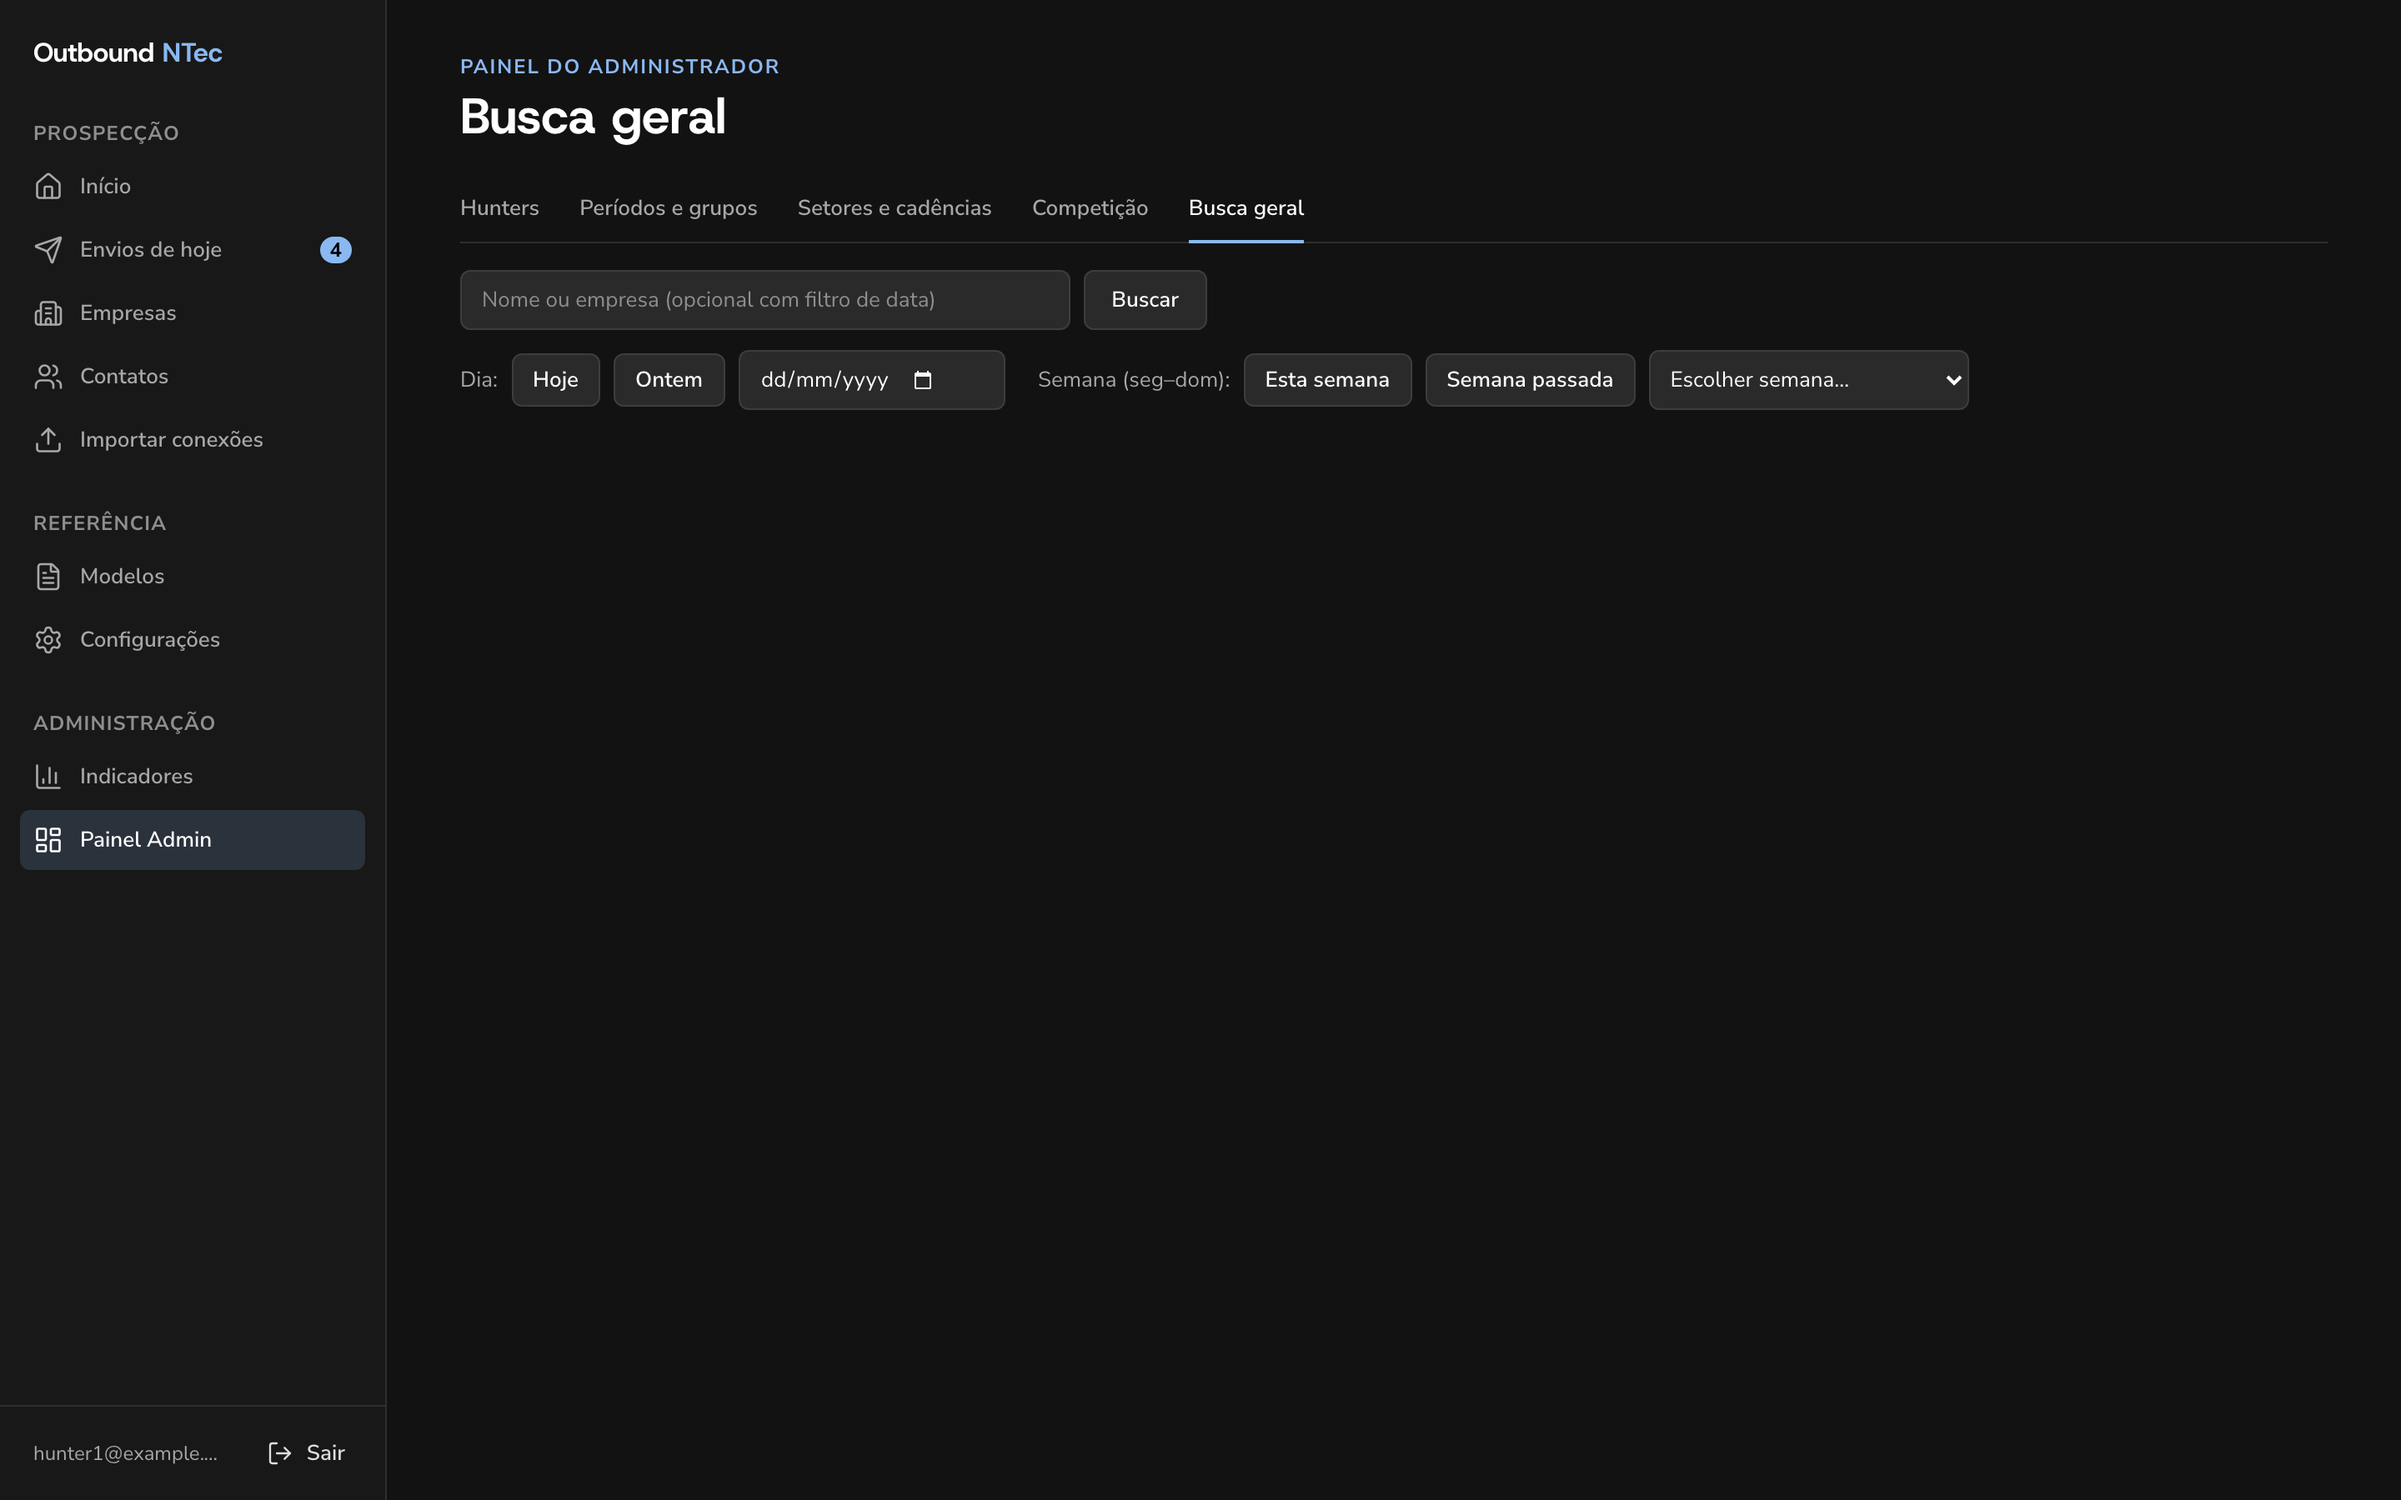
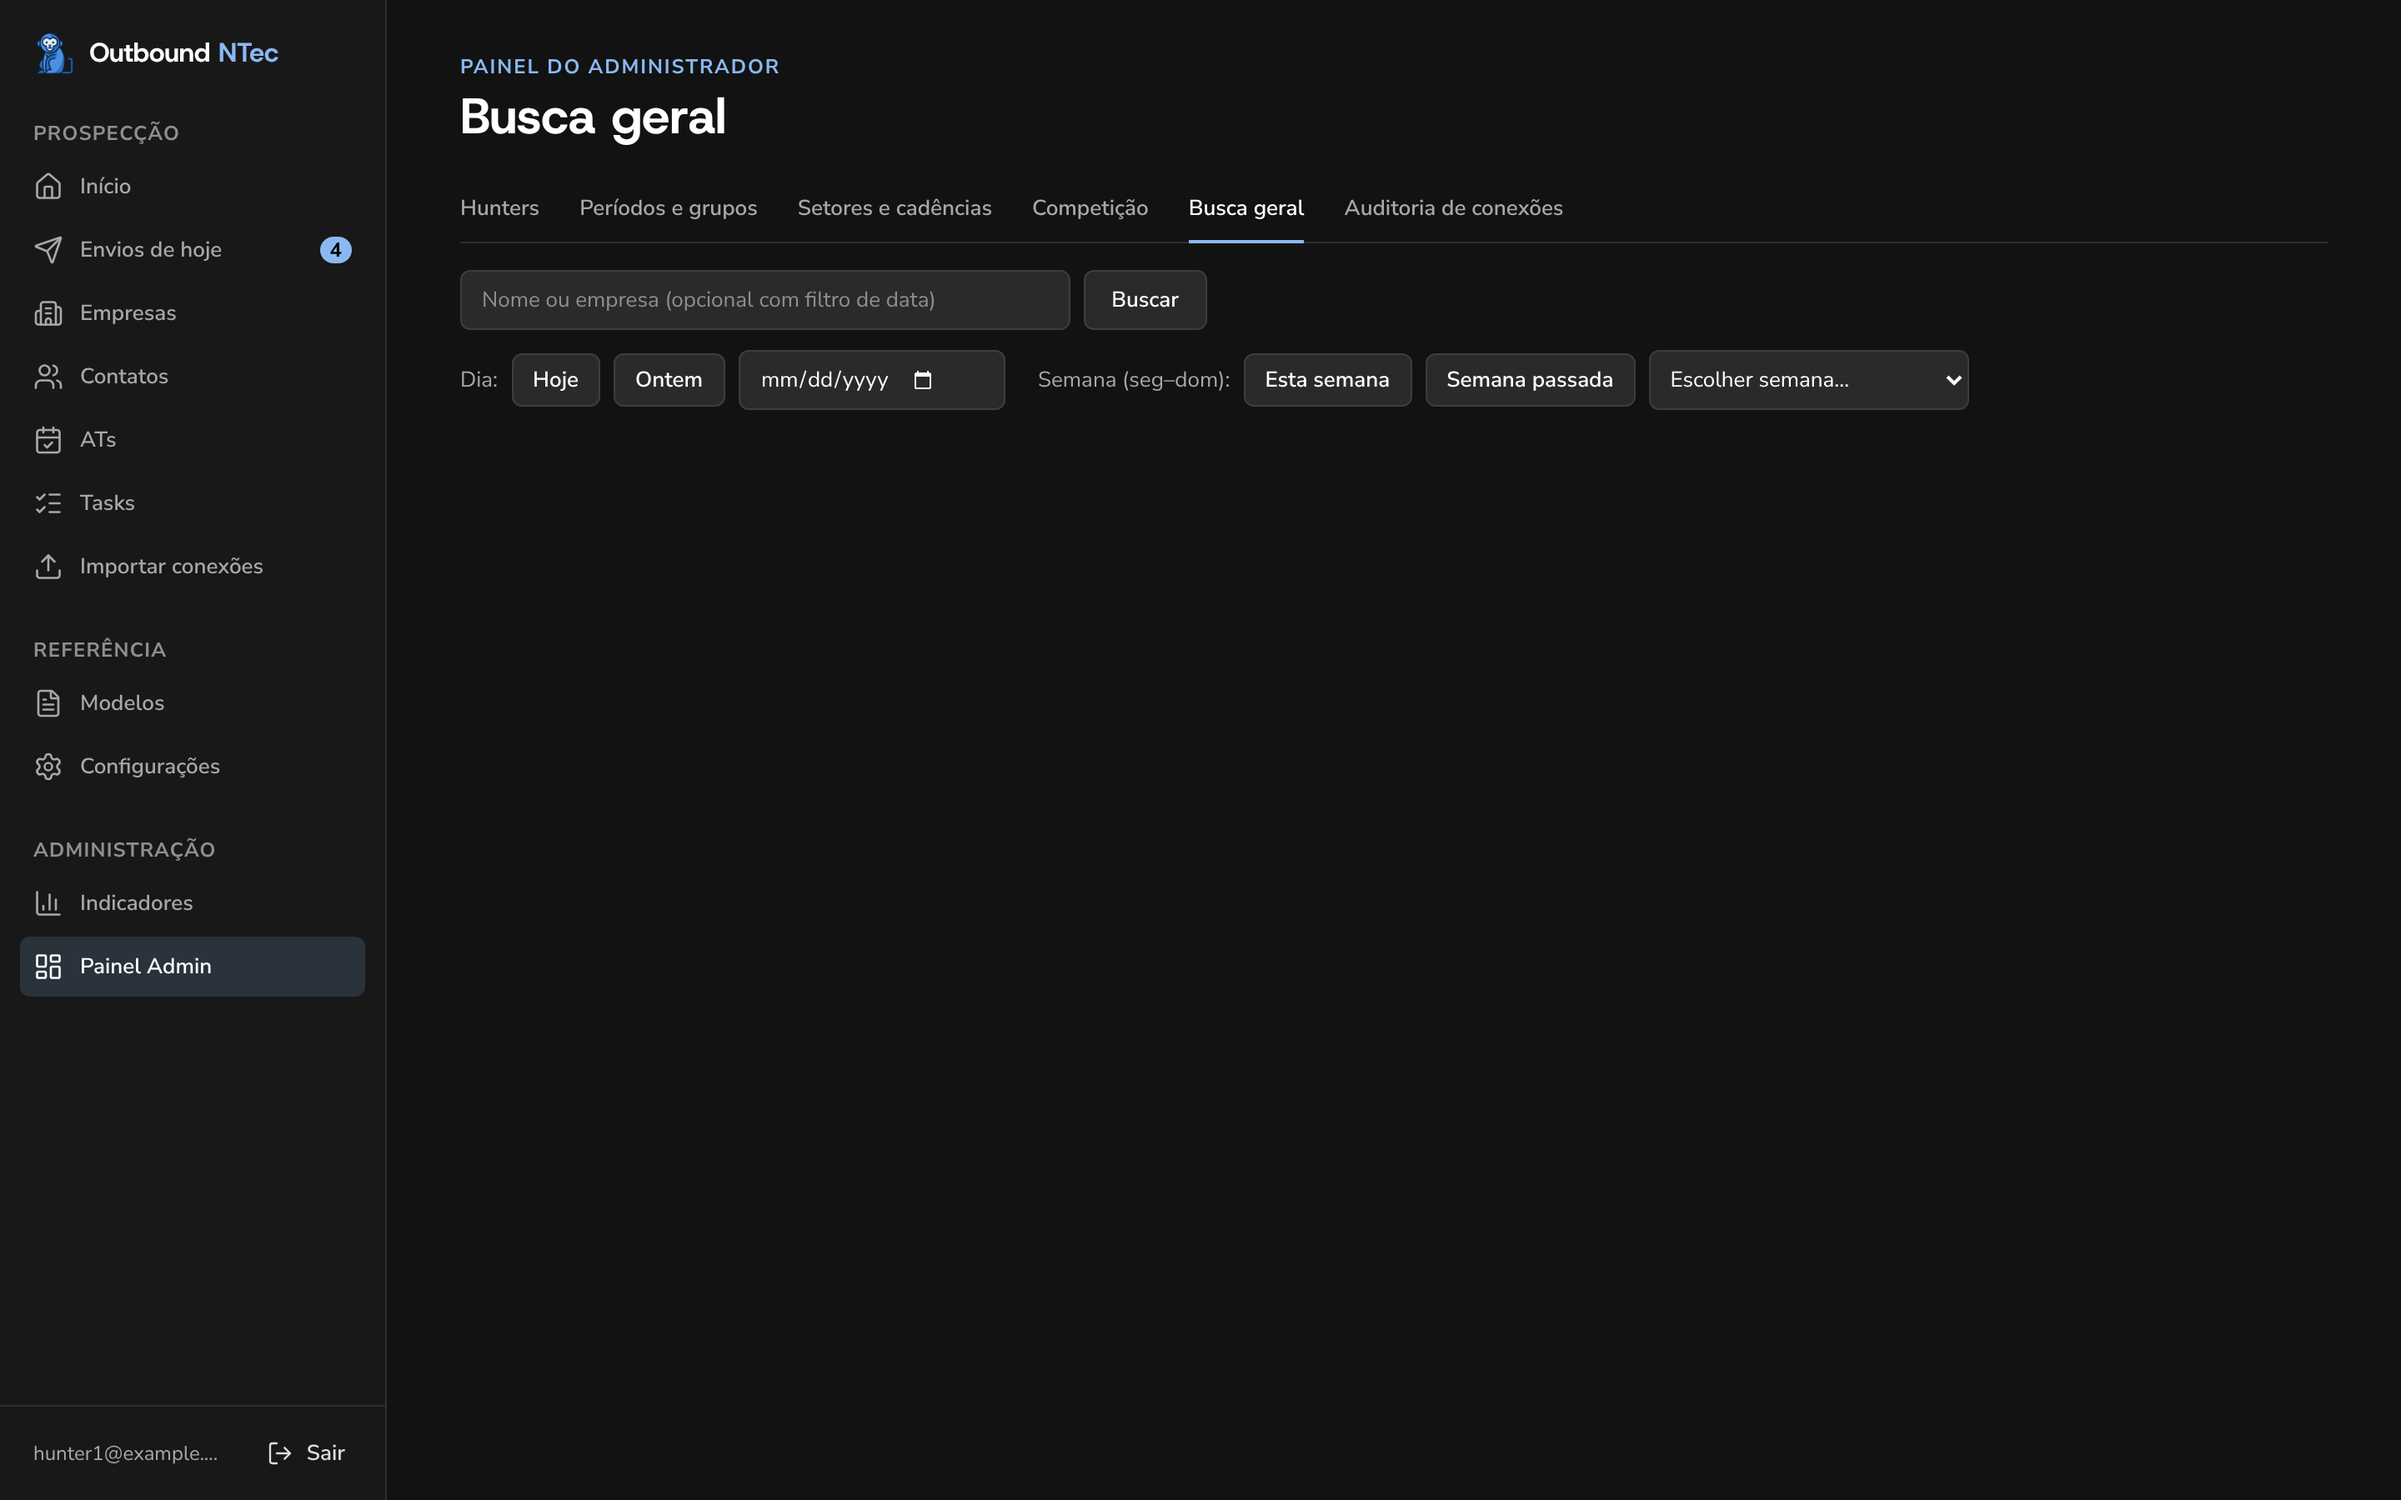
style(ui): mostra o macaquinho do NTec ao lado do nome da plataforma
Claude-Session: https://claude.ai/code/session_0137A66yrD1pyrTwqVBKBtoU

diff --git a/src/components/Marca.tsx b/src/components/Marca.tsx
@@ -1,10 +1,18 @@
 import { cn } from "@/lib/utils";
 
-/** Nome da plataforma: "Outbound NTec", com "NTec" no azul da marca. */
+/** Nome da plataforma: o macaquinho do NTec e "Outbound NTec", com "NTec" no azul da marca. */
 export function Marca({ className }: { className?: string }) {
   return (
-    <span className={cn("font-display font-bold text-heading", className)}>
-      Outbound <span className="text-primary">NTec</span>
+    <span
+      className={cn(
+        "inline-flex items-center gap-2 font-display font-bold text-heading",
+        className,
+      )}
+    >
+      <img src="/favicon.png" alt="" aria-hidden className="size-[1.6em] shrink-0" />
+      <span>
+        Outbound <span className="text-primary">NTec</span>
+      </span>
     </span>
   );
 }

diff --git a/src/components/inicio/Rodape.tsx b/src/components/inicio/Rodape.tsx
@@ -50,7 +50,7 @@ export function Rodape() {
         </div>
         <div className="mt-14 flex items-end justify-between gap-8 text-body">
           <div className="space-y-2">
-            <Marca className="block text-lead" />
+            <Marca className="flex text-lead" />
             <p className="text-muted-foreground">
               Ferramenta interna da equipe de prospecção. O cadastro é para hunters da equipe.
             </p>

diff --git a/docs/redesign/DESIGN.md b/docs/redesign/DESIGN.md
@@ -175,7 +175,8 @@ AT da equipe em `bg-primary-soft`, vaga livre em `bg-surface-inset`, atrasados e
 
 ## 6a. Nome da plataforma
 
-O nome é **Outbound NTec**, com "NTec" em `text-primary`. Use sempre o componente `Marca`
+O nome é **Outbound NTec**, com "NTec" em `text-primary`, precedido do macaquinho do NTec
+(`public/favicon.png`, o mesmo do favicon, decorativo). Use sempre o componente `Marca`
 (`src/components/Marca.tsx`) na navegação lateral e nas páginas públicas; nos títulos das abas
 do navegador, o texto simples "Outbound NTec".
 
